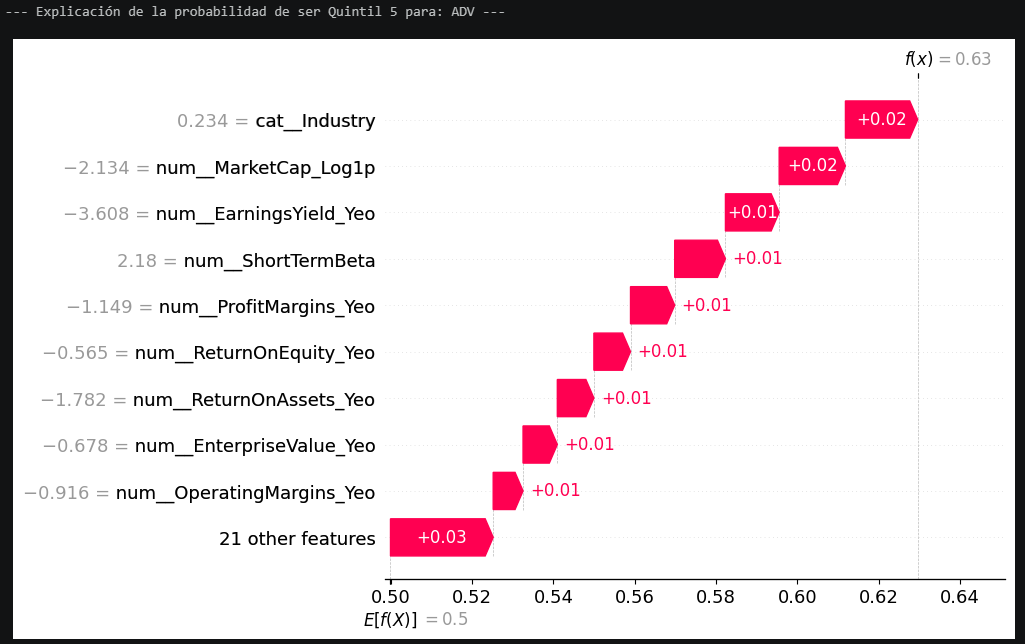
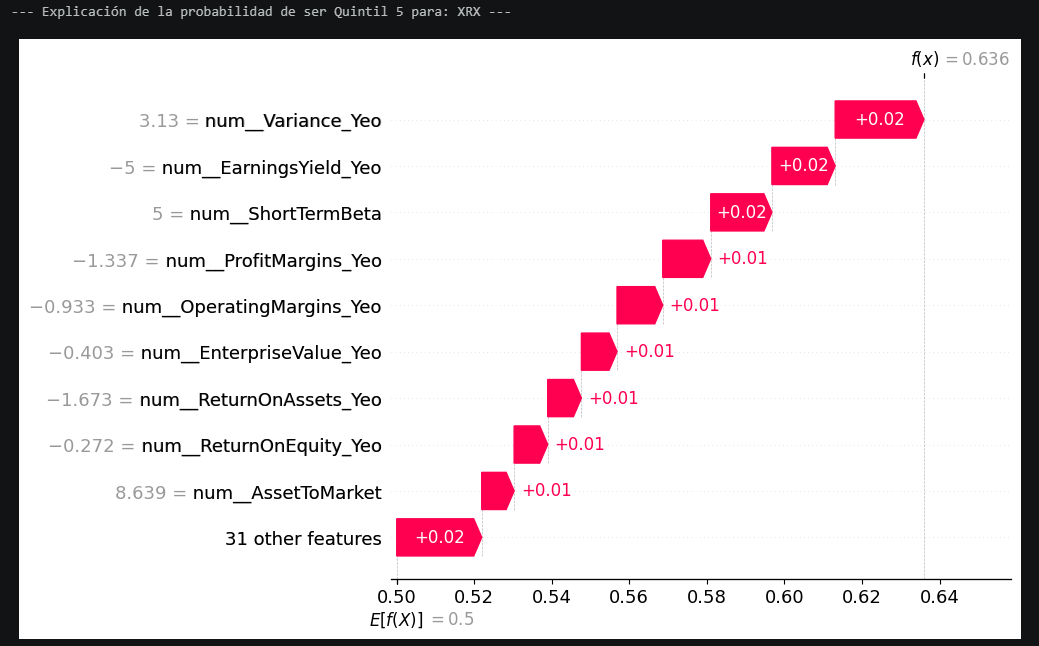
actualizar readme

diff --git a/README.md b/README.md
@@ -51,11 +51,11 @@ Otra restricción de la cuenta básica de `simFin` es que no ofrece información
 ```text
 FINDATAMINING/
 ├── data/                            # Almacenamiento local de datasets y archivos de configuración
-│   ├── reports/                     # Sub-directorio para almacenar los reportes generados luego de modelar
+│   ├── clean/                       # Sub-directorio para almacenar los datos depurados
+│   ├── raw/                         # Almacena los ficheros de datos crudos
 │   ├── simfin/                      # Almacena los ficheros de datos de simFin
+│   ├── reports/                     # Almacena los reportes generados en la fase de modelado
 │   ├── constituents.csv             # Fichero de las acciones constituyentes del Indice S&P 500
-│   ├── raw_data.parquet             # Datos crudos generados por la fase de Extracción
-│   ├── clean_data.parquet           # Datos limpios generados en la fase Transform
 │   ├── market_index.parquet         # Datos históricos de precios del índice del mercado
 │   ├── tickers_sin_datos.csv        # Tickers con datos faltantes, serán excluídos en las extracciones sucesivas
 ├── src/                             # Sub-directorio con los módulos de funciones auxiliares
@@ -81,7 +81,7 @@ FINDATAMINING/
 Tras cruzar la información de los estados financieros con las series de precios históricos, se estructuran las siguientes dimensiones:
 
 * **Variables explicativas (Features):** Métricas operativas, de riesgo y estructura de capital, tales como `Return On Assets` (ROA), `Return on Equity` (ROE), `Debt to EBITDA`, `Profit Margins`, entre otras.
-* **Variable objetivo (Target):** Variable categórica `MonthlyExcessReturn_Quantile`, la cual agrupa en 5 clusters los retornos mensuales en exceso al retorno de mercado.
+* **Variable objetivo (Target):** A partir de la Variable categórica `MonthlyExcessReturn_Quantile`, la cual agrupa en 5 clusters los retornos mensuales en exceso al retorno de mercado, se obtiene la variable binaria `Target_Top_Quintile` para predecir la probabilidad de pertenecer al grupo más alto.
 
 ---
 ## 🚀 Requisitos e Instalación